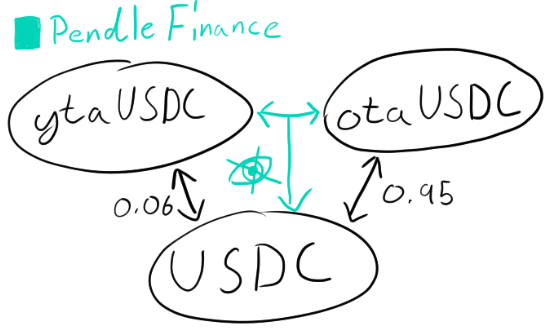
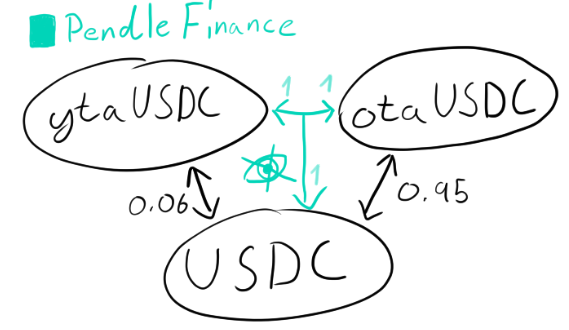
update leaf node picture and text

diff --git a/_posts/2022-02-15-Hidden-Paths-Arbitrage.md b/_posts/2022-02-15-Hidden-Paths-Arbitrage.md
@@ -1,5 +1,5 @@
 ## Hidden Paths and Arbitrage
-Inspired by [@derked\_eth's recent article](https://twitter.com/derked_eth/status/1488330855114289152) on his adventure into the world of long tail MEV, I decided to write about my own story. I want to show that opportunities still exist for searchers, who put an emphasis on understanding protocols, not just searchers with the best black magic compute optimizations.  
+Inspired by [@derked\_eth's (not so) recent article](https://twitter.com/derked_eth/status/1488330855114289152) on his adventure into the world of long tail MEV, I decided to write about my own story. I want to show that opportunities still exist for searchers, who put an emphasis on understanding protocols, not just searchers with the best black magic compute optimizations.  
 
 
 This article will have a quick introduction to arbitrage, explain why most arbitrage is highly competitive, and then showcase less competitive arbitrage opportunities, based on a real world example. 
@@ -34,7 +34,7 @@ When looking for arbitrage in the grand trading pair graph, leaf nodes are gener
 
 Enter [Pendle. Pendle](https://pendle.finance/) is a DeFi protocol for turning variable yield tokens, into fixed yield tokens. The way the protocol accomplishes this is simple: It splits the yield generating token into two distinct tokens; a yield token(yt) representing the yield earned up until maturity, and a collateral token(ot) representing the underlying collateral. To earn a fixed yield, one can supply a yield bearing token, say Aave USDC(aUSDC), split it into ytaUSDC and otaUSDC, sell the ytaUSDC and wait until maturity to redeem the otaUSDC.  
 
-However, there's a different mechanism for redeeming your yt and ot. If you have an equal amount of both, you can redeem them for the underlying, before maturity. Here we find our shortcut.  
+However, there's a different mechanism for redeeming your yt and ot. If you have an equal amount of both, you can redeem them for the underlying, before maturity. Here we find our shortcut, invisible to the generalized arbitrage bots.  
 
 ![Leaf Nodes Pendle](https://github.com/08xmt/08xmt/blob/main/docs/assets/images/leaf_nodes_pendle.png?raw=true)  
 *The cyan Pendle edge allows the creation of 1 ytaUSDC and 1 otaUSDC for 1 aUSDC, opening an arbitrage opportunity.*
